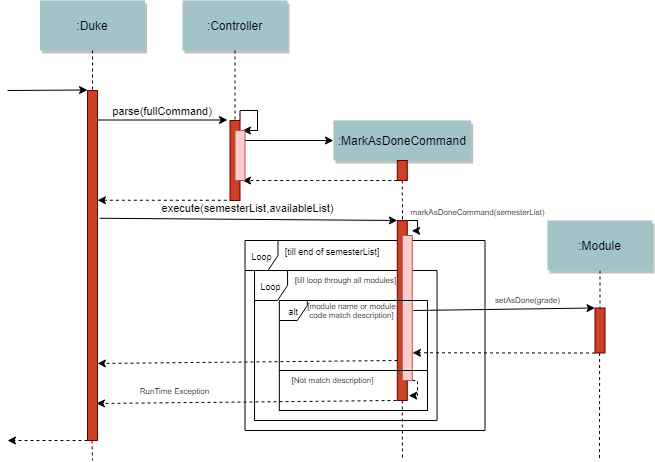
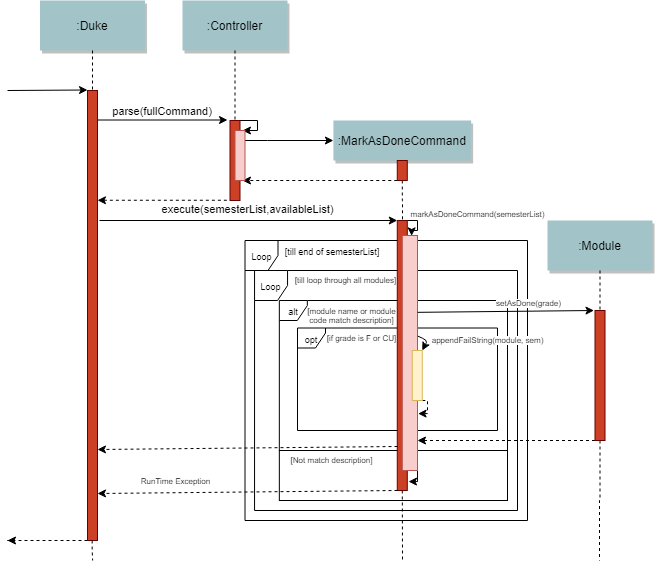
updated MarkAsDone Sequence diagram, and added appendFailString method

diff --git a/docs/team/deetomok.md b/docs/team/deetomok.md
@@ -83,14 +83,15 @@ A grey highlight as `such` indicates a command which can be typed into the comma
 Words in [square brackets] denotes parameters that have to be specified by the user.
 
 ## Project Feature
-### Deleting module: delete
+### 3.3  Deleting module: delete
 You can delete a module from a semester of your module plan or from the list of available modules.
 
-#### Delete a specific module from a semester in module plan
+#### 3.3.1 Delete a specific module from a semester in module plan
 You can do so by using the module code or the module name.
-The module to be deleted must be in your module plan.
+The module to be deleted must be in your module plan.\
+If you delete a module which is done and not failed, then the total complete credits will be changed.
  
-#### Based on module code
+#### 3.3.1.1 Based on module code
 Format: `delete id/[module code] s/[semester]`
 
 Example: `delete id/IS4241 s/4`
@@ -102,7 +103,7 @@ Expected output:
 `Module IS4241 has been deleted from semester Y2S2`
 
 
-#### Based on module name
+#### 3.3.1.2 Based on module name
 Format: `delete n/[module name] s/[semester]`
 
 Example: `delete n/Discrete Structure s/4`
@@ -113,9 +114,10 @@ Expected output:
 
 `Module Discrete Structure has been deleted from semester Y2S2`
 
-#### Delete a specific module from available module list
+#### 3.3.2 Delete a specific module from available module list
+If the module you delete also in module plan, it will also be removed in module plan.
 
-#### Based on module name
+#### 3.3.2.1 Based on module name
 Format: `delete id/[module code]`
 
 Example: `delete id/IS4241`
@@ -126,7 +128,7 @@ Expected output:
 
 `ID: IS4241 Name: Social Media Network Analysis | Modular Credit: 4`
 
-#### Based on module code
+#### 3.3.2.2 Based on module code
 Format: `delete n/[module name]`
 
 Example: `delete n/Social Media Network Analysis`
